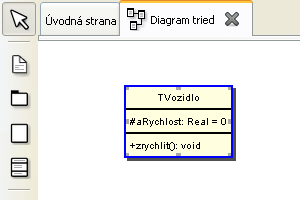
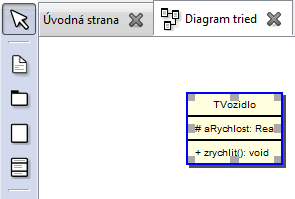
User documentation updated.

diff --git a/UML/behavioral.html b/UML/behavioral.html
@@ -1,0 +1,69 @@
+<!DOCTYPE html PUBLIC "-//W3C//DTD XHTML 1.0 Transitional//EN" "http://www.w3.org/TR/xhtml1/DTD/xhtml1-transitional.dtd">
+<html>
+<head>
+	<title>Behavioráne diagramy (Behavioral Diagrams)</title>
+	<meta http-equiv="Content-Type" content="text/html; charset=UTF-8" />
+	<link rel="stylesheet" type="text/css" href="pageStyle.css" />
+	<base target="helpContent" />
+</head>
+
+<style>
+	a {
+		text-decoration: none;
+	}
+
+	ul.hier1, ul.hier2, ul.hier3 {
+		margin-left: -20px;
+		#margin-left: 17px; /*IE*/
+	}
+
+	ul.hier1 > li {
+		#margin-left: 0px; /*IE*/
+		font-size: larger;
+		font-weight: bold;
+		line-height: 200%;
+	}
+
+	ul.hier2 > li {
+		#margin-left: 3px; /*IE*/
+		font-size: medium;
+		font-weight: normal;
+		line-height: 100%;
+	}
+
+	ul.hier3 > li {
+		#margin-left: 5px; /*IE*/
+		font-size: 85%;
+		font-weight: normal;
+		line-height: 100%;
+	}
+</style>
+
+<body>
+	<ul class="hier1">
+		<h2>
+			Behaviorálne diagramy (Behavioral Diagrams)
+		</h2>
+		<h4>
+			V tejto stati je rozobratý systém UML diagramov, pre popis správania elementov/entít systému. <br/>
+			Oproti štrukturálnym diagramom popisujú zmeny stavov. Zachytávajú systém dynamicky.
+		</h4>
+		<br/>
+		<h4>
+			Behaviorálne diagramy:
+		</h4>
+		<ul class="hier2">
+			<li><a href="Diagramy/uc.html">Diagram prípadov použitia (Use Case Diagram)</a></li>
+			<li><a href="Diagramy/communication.html">Diagram komunikácie (Communication Diagram)</a></li>
+			<li><a href="Diagramy/sequence.html">Diagram sekvenčný (Sequence Diagram)</a></li>
+			<li><a href="Diagramy/interactionOver.html">Diagram interakcií (Interaction Overview Diagram)</a></li>
+			<li><a href="Diagramy/activity.html">Diagram aktivít (Activity Diagram)</a></li>
+			<li><a href="Diagramy/state.html">Diagram stavový (State Diagram)</a></li>
+			<li><a href="Diagramy/timing.html">Diagram časový (Timing Diagram)</a></li>
+		</ul>
+			
+	</ul>
+</body>
+
+
+</html>

diff --git a/Intro/intro.html b/Intro/intro.html
@@ -11,12 +11,13 @@
 
 <h2>Vážení používatelia</h2>
 <h4>Ďakujeme Vám, že ste si vybrali nástroj <b><a href="../Appendix/links.html#UML.FRI">UML.FRI</a></b>. <br />
-Dúfame, že Vám bude nápomocný a že nám ho pomôžete vylepšovať.</h4>
+Dúfame, že Vám bude nápomocný v reálnych projektoch a taktiež budeme šťastní ak sa budete podieľať na jeho skvalitnení Vašimi pripomienkami, radami, prípadne iným druhom výpomoci.
+ Sponzorské príspevky prispievajte na číslo účtu 261-831-8570/1100</h4>
 <br />
 
  <ul>
 	<li><a href="../Intro/whatIs.html">Čo je UML.FRI</a></li>
-	<li><a href="../Intro/gui.html">Užívateľské rozhranie</a></li>
+	<li><a href="../Intro/gui.html">Používateľské rozhranie</a></li>
 	<li><a href="../QuickStart/quickStart.html">Tvorba projektu</a></li>
 	<li><a href="../Appendix/keyShortcuts.html">Klávesové skratky</a></li>
 	<li><a href="../Appendix/contact.html">Kontakt</a></li>
@@ -29,14 +30,15 @@ Dúfame, že Vám bude nápomocný a že nám ho pomôžete vylepšovať.</h4>
 
 <div class="warning"><b>Upozornenie: </b><br />
 	Keďže je UML.FRI vyvíjané priebežne, uvedené postupy, screenshoty<br />
-	 a klávesové skratky sa môžu líšiť v závislosti od verzie programu.
+	 a klávesové skratky sa môžu líšiť v závislosti od verzie programu. <br />
+	 UML norma je priebežne aktualizovaná. Diagramy použité v programe nemusia podporovať najnovšiu normu UML.
 </div>
 
 <br />
 <br />
 
-<p><b>© Martina Iskerková</b><br />
-Posledná úprava: 10/2008</p><br />
+<p><b>© Martina Iskerková, Slavko Kavecký, Michal Kováčik, Peter Pajta</b><br />
+Posledná úprava: 03/2009</p><br />
 
 <p style="font-size: 80%;">Kopírovanie, šírenie, prípadne modifikácia tohto dokumentu je povolené v súlade<br />
 s podmienkami <a href="../Appendix/gnufdl_sk.html">GNU licencie na slobodné šírenie dokumentácie (GNU FDL)</a>, verzia 1.2,<br />

diff --git a/UML/structural.html b/UML/structural.html
@@ -1,0 +1,68 @@
+<!DOCTYPE html PUBLIC "-//W3C//DTD XHTML 1.0 Transitional//EN" "http://www.w3.org/TR/xhtml1/DTD/xhtml1-transitional.dtd">
+<html>
+<head>
+	<title>Štrukturálne diagramy (Structural Diagrams)</title>
+	<meta http-equiv="Content-Type" content="text/html; charset=UTF-8" />
+	<link rel="stylesheet" type="text/css" href="pageStyle.css" />
+	<base target="helpContent" />
+</head>
+
+<style>
+	a {
+		text-decoration: none;
+	}
+
+	ul.hier1, ul.hier2, ul.hier3 {
+		margin-left: -20px;
+		#margin-left: 17px; /*IE*/
+	}
+
+	ul.hier1 > li {
+		#margin-left: 0px; /*IE*/
+		font-size: larger;
+		font-weight: bold;
+		line-height: 200%;
+	}
+
+	ul.hier2 > li {
+		#margin-left: 3px; /*IE*/
+		font-size: medium;
+		font-weight: normal;
+		line-height: 100%;
+	}
+
+	ul.hier3 > li {
+		#margin-left: 5px; /*IE*/
+		font-size: 85%;
+		font-weight: normal;
+		line-height: 100%;
+	}
+</style>
+
+<body>
+	<ul class="hier1">
+		<h2>
+			Štrukturálne diagramy (Structural Diagrams)
+		</h2>
+		<h4>
+			V tejto stati je rozobratý systém UML diagramov, pre popis štruktúry elementov/entít systému. <br/>
+			Oproti behaviorálnym diagramom nepopisujú zmeny stavov. Zachytávajú systém ako statický obrázok (popis).
+		</h4>
+		<br/>
+		<h4>
+			Štrukturálne diagramy:
+		</h4>
+		<ul class="hier2">
+			<li><a href="Diagramy/class.html">Diagram tried (Class Diagram)</a></li>
+			<li><a href="Diagramy/object.html">Diagram objektov (Object Diagram)</a></li>
+			<li><a href="Diagramy/compStruct.html">Diagram kompozitov (Composite Structure)</a></li>
+			<li><a href="Diagramy/package.html">Diagram balíčkov (Package Diagram)</a></li>
+			<li><a href="Diagramy/component.html">Diagram komponentov (Component Diagram)</a></li>
+			<li><a href="Diagramy/deployment.html">Diagram nasadenia (Deployment Diagram)</a></li>
+		</ul>
+			
+	</ul>
+</body>
+
+
+</html>

diff --git a/QuickStart/quickStart4.html b/QuickStart/quickStart4.html
@@ -22,17 +22,16 @@
 <h3>Editácia prvku</h3>
 <div>
 	Mnohé prvky majú okrem svojho mena aj rôzne špecifické vlastnosti. (Napríklad triedy mávajú atribúty a metódy.)<br />
-	Tieto vlastnosti sa zvyčajne tiež dajú upravovať pomocou záložky "Vlastnosti",	alebo dvojklikom na daný prvok v diagrame.<br />
+	Tieto vlastnosti sa zvyčajne tiež dajú upravovať pomocou záložky "Vlastnosti".<br />
+	Po pridaní atribútu stlačením tlačidla "Add item" v záložke "Vlastnosti", je možné upravovať jeho vlastnosti. (Napríklad meno, typ...).<br/>
+	Po pridaní metódy stlačením tlačidla "Add item" v záložke "Vlastnosti", je možné upravovať vlastnosti metódy. (Napríklad názov, návratový typ, parametre...).<br/>
 </div><br />
 <div>
-		<img src="Images/qs4/1.png" alt="qs4/1.png" width="300px" height="200px"  />
-		<img src="Images/qs4/2.png" alt="qs4/2.png" width="200px" height="200px"  />
+		<img src="Images/qs4/1.png" alt="qs4/1.png" width="295px" height="199px"  />
+		<img src="Images/qs4/2.png" alt="qs4/2.png" width="197px" height="200px"  />
 		<br />
-		<img src="Images/qs4/3.png" alt="qs4/3.png" width="300px" height="300px"  />
-		<img src="Images/qs4/4.png" alt="qs4/4.png" width="330px" height="300px"  />
-		<br />
-		<img src="Images/qs4/5.png" alt="qs4/5.png" width="300px" height="300px"  />
-		<img src="Images/qs4/6.png" alt="qs4/6.png" width="360px" height="300px"  />
+		<img src="Images/qs4/3.png" alt="qs4/3.png" width="275px" height="453px"  />
+		<img src="Images/qs4/4.png" alt="qs4/4.png" width="276px" height="455px"  />
 </div>
 
 </body>

diff --git a/FlowChart/intro.html b/FlowChart/intro.html
@@ -1,0 +1,59 @@
+<!DOCTYPE html PUBLIC "-//W3C//DTD XHTML 1.0 Transitional//EN" "http://www.w3.org/TR/xhtml1/DTD/xhtml1-transitional.dtd">
+<html>
+<head>
+	<title>Vývojové diagramy (FlowChart Diagrams)</title>
+	<meta http-equiv="Content-Type" content="text/html; charset=UTF-8" />
+	<link rel="stylesheet" type="text/css" href="pageStyle.css" />
+	<base target="helpContent" />
+</head>
+
+<style>
+	a {
+		text-decoration: none;
+	}
+
+	ul.hier1, ul.hier2, ul.hier3 {
+		margin-left: -20px;
+		#margin-left: 17px; /*IE*/
+	}
+
+	ul.hier1 > li {
+		#margin-left: 0px; /*IE*/
+		font-size: larger;
+		font-weight: bold;
+		line-height: 200%;
+	}
+
+	ul.hier2 > li {
+		#margin-left: 3px; /*IE*/
+		font-size: medium;
+		font-weight: normal;
+		line-height: 100%;
+	}
+
+	ul.hier3 > li {
+		#margin-left: 5px; /*IE*/
+		font-size: 85%;
+		font-weight: normal;
+		line-height: 100%;
+	}
+</style>
+
+<body>
+	<ul class="hier1">
+		<h2>
+			Vývojové diagramy (FlowChart Diagrams)
+		</h2>
+		<h4>
+			Vývojové diagramy sú jedny z najjednoduchších a najstarších princípov popisu algoritmov, prípadne iných činností.
+			Pre bližší detail o týchto diagramoch je možné navštíviť <a href="about.html">Popis Vývojových diagramov (FlowChart Diagrams)</a>. <br />
+			Ak máte záujem zistiť, ako pracovať s vývojovými diagramami, odporúčame navštíviť <a href="flowChartInUml.html">Vývojové diagramy v UML .FRI (FlowChart Diagrams)</a>
+		</h4>
+		<br/>
+		
+			
+	</ul>
+</body>
+
+
+</html>

diff --git a/QuickStart/quickStart3.html b/QuickStart/quickStart3.html
@@ -24,18 +24,19 @@
 	Ak máme otvorený diagram, môžeme si všimnúť, že v paneli nástrojov pribudli ikony.<br />
 	Pri prechádzaní myšou ponad ikony sa zobrazujú popisky s názvom prvku/spojenia.<br />
 	Klikneme na ikonu triedy ("Class") a následne klikneme do pracovnej oblasti.<br />
-	Vidíme, že do diagramu aj do stromu projektu pribudla trieda "New Class".<br />
+	Vidíme, že do diagramu aj do stromu projektu pribudla trieda "Class1".<br />
 	Obdobne môžeme pridať ďalšiu triedu alebo iný prvok.<br />
+	Atribúty/Metódy je možné do triedy pridať tlačidlom "Add item".<br/>
 	<br />
 	Odporúča sa, aby každý prvok mal jedinečné meno - to mu môžeme meniť v záložke "Vlastnosti".<br />
 	<br />
 </div>
 <div>
-	<img src="Images/qs3/1.png" alt="qs3/1.png" width="300px" height="200px"  />
-	<img src="Images/qs3/2.png" alt="qs3/2.png" width="200px" height="200px"  />
+	<img src="Images/qs3/1.png" alt="qs3/1.png" width="296px" height="198px"  />
+	<img src="Images/qs3/2.png" alt="qs3/2.png" width="200px" height="198px"  />
 	<br />
-	<img src="Images/qs3/3.png" alt="qs3/3.png" width="200px" height="200px"  />
-	<img src="Images/qs3/4.png" alt="qs3/4.png" width="300px" height="200px"  />
+	<img src="Images/qs3/3.png" alt="qs3/3.png" width="295px" height="200px"  />
+	<img src="Images/qs3/4.png" alt="qs3/4.png" width="197px" height="198px"  />
 </div>
 
 </body>

diff --git a/Intro/gui.html b/Intro/gui.html
@@ -2,14 +2,14 @@
 <html xmlns="http://www.w3.org/1999/xhtml">
 
 <head>
-	<title>Užívateľské rozhranie</title>
+	<title>Používateľské rozhranie</title>
 	<meta http-equiv="Content-Type" content="text/html; charset=UTF-8" />
 	<link rel="stylesheet" type="text/css" href="../pageStyle.css" />
 </head>
 
 <body>
 
-<h3>Užívateľské rozhranie</h3>
+<h3>Používateľské rozhranie</h3>
 
 Grafické rozhranie aplikácie (GUI) je rozdelené do niekoľkých častí: <br />
 V hornej časti [<b style="color:red">1</b>] sa nachádza hlavné menu s najpoužívanejšími operáciami	rozdelenými do logických skupín.<br />
@@ -17,7 +17,7 @@ Vľavo [<b style="color:red">2</b>] je umiestnený panel nástrojov, pomocou kto
 Vpravo je strom projektu [<b style="color:red">3</b>] a vlastnosti označeného prvku [<b style="color:red">4</b>].<br />
 V strede [<b style="color:red">5</b>] sa nachádza pracovná oblasť, nad ktorou je oblasť pre prepínanie tabov [<b style="color:red">6</b>].<br />
 <br />
-<img alt="Okno s diagramom"  src="Images/guiLayout.png" width="800px" height="600px" />
+<img alt="Okno s diagramom"  src="Images/guiLayout.jpg" width="802px" height="701px" />
 
 </body>
 

diff --git a/QuickStart/quickStart6.html b/QuickStart/quickStart6.html
@@ -21,7 +21,7 @@
 
 <h3>Editácia vzťahu</h3>
 Ako sme si už ukázali, spojenie dvoch prvkov môže byť priame alebo rôzne zalomené.<br />
-Tvar čiary môčeme samozrejme meniť aj po jej vytvorení, pričom je možné:<br />
+Tvar čiary môžeme samozrejme meniť aj po jej vytvorení, pričom je možné:<br />
 <br />
 <ul>
 	<li><u>Pridávať body</u> ... v mieste požadovaného zlomu ťaháme čiaru tak, aby sa vytvorilo zalomenie</li>
@@ -56,8 +56,8 @@ Tvar čiary môčeme samozrejme meniť aj po jej vytvorení, pričom je možné:
 </div>
 <br />
 <div>
-	<img src="Images/qs6/10.png" alt="qs6/10.png" width="200px" height="160px"  />
-	<img src="Images/qs6/11.png" alt="qs6/11.png" width="220px" height="160px"  />
+	<img src="Images/qs6/10.png" alt="qs6/10.png" width="211px" height="198px"  />
+	<img src="Images/qs6/11.png" alt="qs6/11.png" width="194px" height="138px"  />
 </div>
 <br />
 <div class="note"><b>Poznámka: </b>

diff --git a/index.html b/index.html
@@ -44,7 +44,21 @@
 		<li><a href="Intro/intro.html">Úvod</a></li>
 		<ul class="hier2">
 			<li><a href="Intro/whatIs.html">Čo je UML.FRI</a></li>
-			<li><a href="Intro/gui.html">Užívateľské rozhranie</a></li>
+			<li><a href="Intro/gui.html">Používateľské rozhranie</a></li>
+		</ul>
+		
+		<li><a href="UML/intro.html">Prehľad UML diagramov</a></li>
+		<ul class="hier2">
+			<li><a href="UML/structural.html">Štrukturálne Diagramy</a></li>
+			<li><a href="UML/behavioral.html">Behaviorálne Diagramy</a></li>
+			
+		</ul>
+		
+		<li><a href="FlowChart/intro.html">Vývojové diagramy</a></li>
+		<ul class="hier2">
+			<li><a href="FlowChart/about.html">Popis Vývojových diagramov</a></li>
+			<li><a href="FlowChart/flowChartInUml.html">Vývojové diagramy v UML .FRI</a></li>
+			
 		</ul>
 
 		<li><a href="QuickStart/quickStart.html">Tvorba projektu</a></li>

diff --git a/Intro/whatIs.html b/Intro/whatIs.html
@@ -16,8 +16,10 @@ zameraný najmä na tvorbu UML 2.0 diagramov,<br />
 pričom podporuje aj tvorbu užívateľsky definovaných prvkov a diagramov.<br />
 <br />
 V aktuálnej verzii nástroj podporuje tvorbu diagramu tried ("Class diagram"),<br />
-čiastočne aj diagram aktivít ("Activity diagram"), stavový diagram ("State diagram")<br />
-a diagram prípadov použitia ("Use Case diagram").<br />
+čiastočne aj diagram aktivít ("Activity diagram"), stavový diagram ("State diagram"),<br />
+diagram prípadov použitia ("Use Case diagram") a diagram objektov ("Object diagram").<br />
+<br />
+Implementovaný (od februára 2009) je aj vývojový diagram ("Flow Chart diagram").<br />
 <br />
 Diagramy sa nedajú tlačiť, no dajú sa exportovať do formátov SVG, PNG, PDF a PostScript.<br />
 <br />

diff --git a/QuickStart/quickStart1.html b/QuickStart/quickStart1.html
@@ -34,8 +34,8 @@ Po označení projektu môžeme v pravej dolnej časti GUI zmeniť jeho názov, 
 	 		<td><img src="Images/qs1/2.png" alt="qs1/2.png" width="300px" height="200px"  /></td>
 	 	</tr>
 	 	<tr>
-	 		<td><img src="Images/qs1/3.png" alt="qs1/3.png" width="200px" height="300px"  /></td>
-	 		<td><img src="Images/qs1/4.png" alt="qs1/4.png" width="200px" height="300px"  /></td>
+	 		<td><img src="Images/qs1/3.png" alt="qs1/3.png" width="260px" height="323px"  /></td>
+	 		<td><img src="Images/qs1/4.png" alt="qs1/4.png" width="260px" height="325px"  /></td>
 	 	</tr>
 	</table>
 </div>
